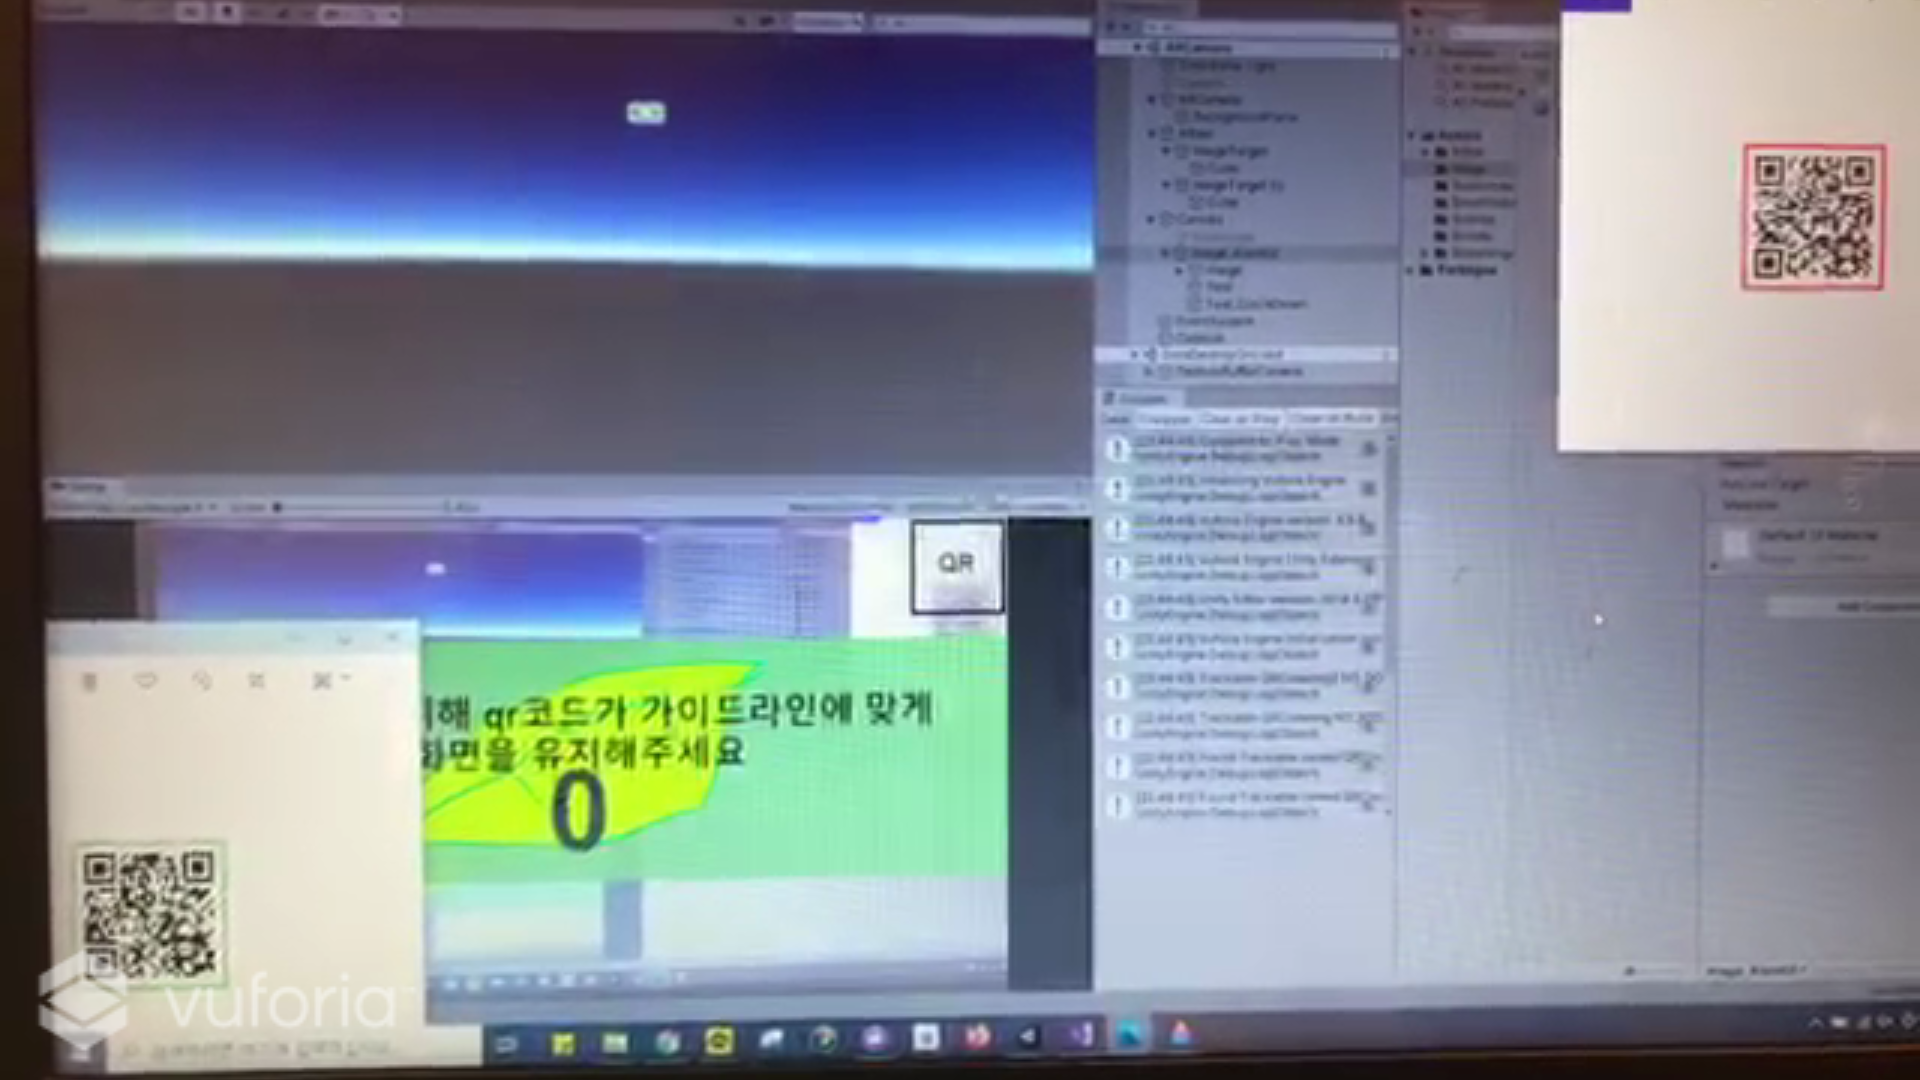
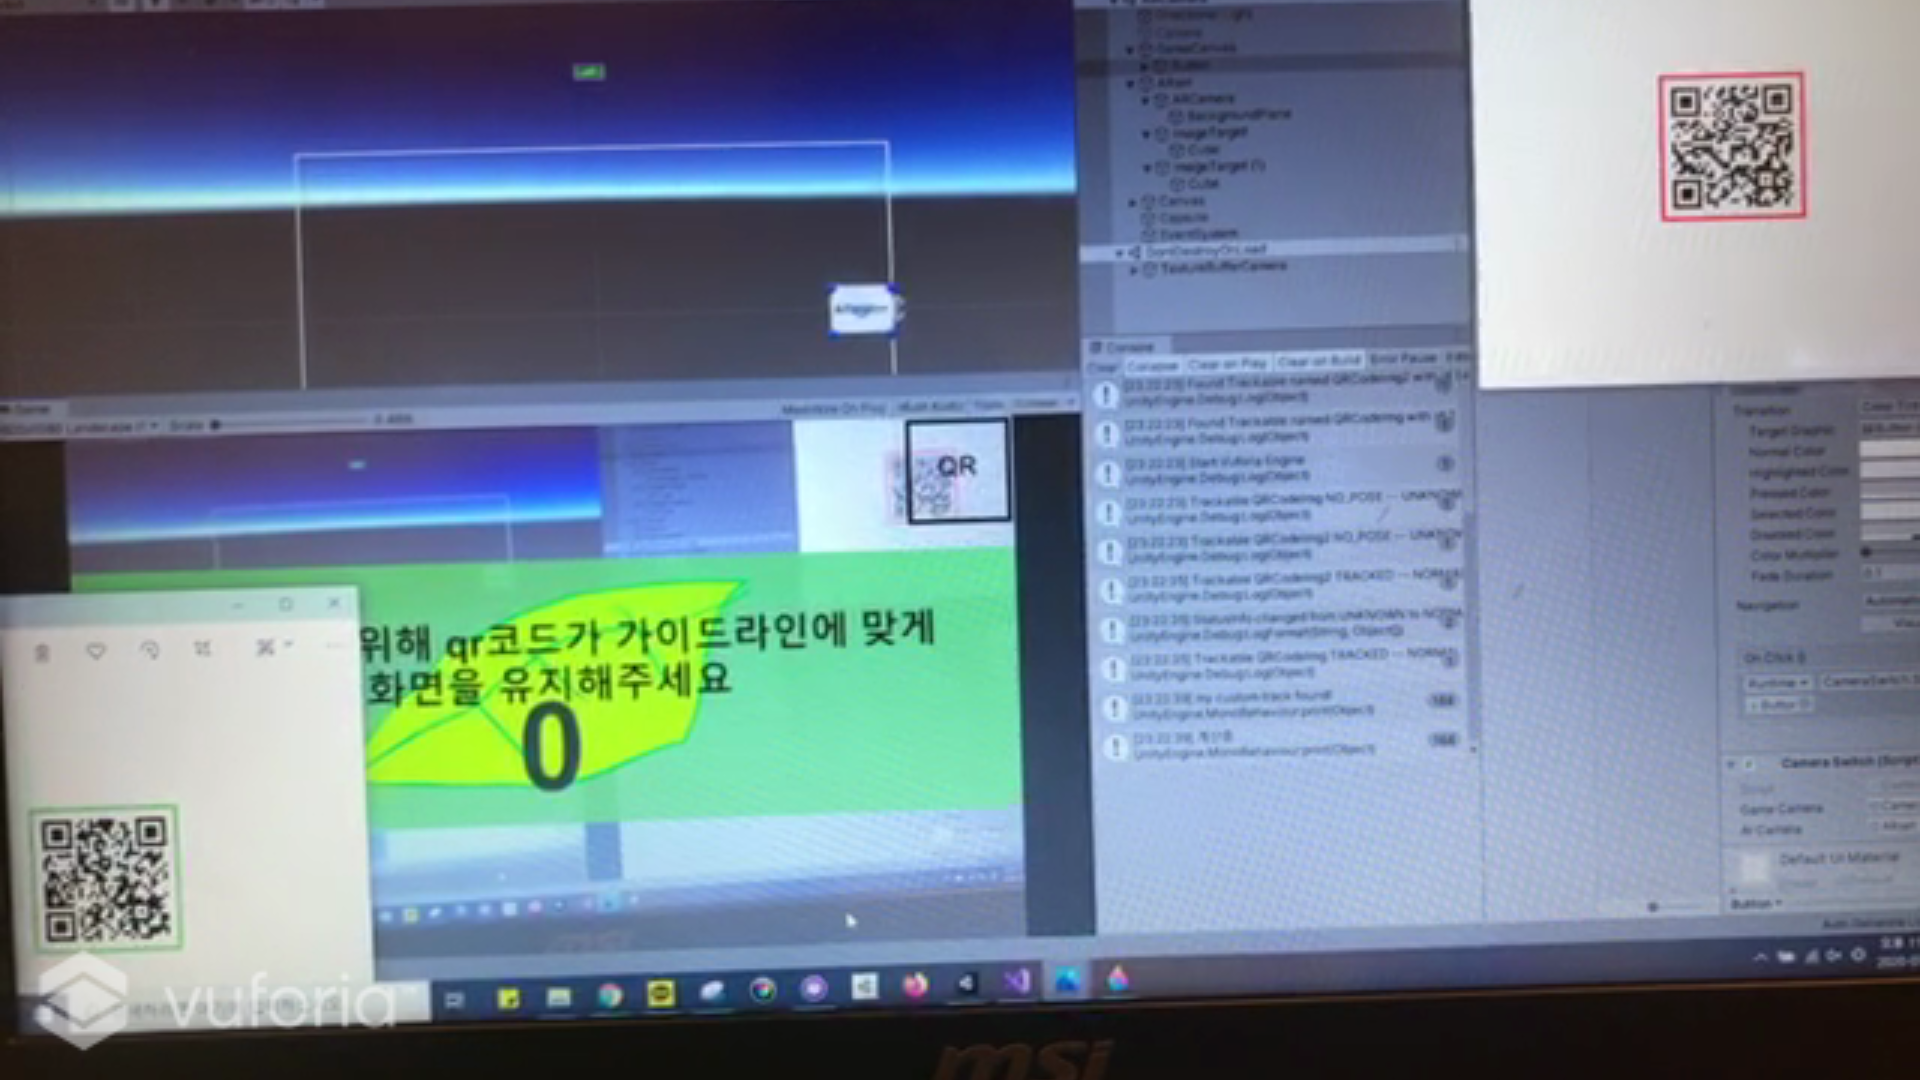
camera switch
게임모드에서 버튼을 통해 ar모드로 스위치

diff --git a/Project_GardenApp/Assets/Scripts/CameraSwitch.cs b/Project_GardenApp/Assets/Scripts/CameraSwitch.cs
@@ -1,0 +1,15 @@
+using System.Collections;
+using System.Collections.Generic;
+using UnityEngine;
+
+public class CameraSwitch : MonoBehaviour
+{
+    public GameObject GameCamera;
+    public GameObject ArCamera;
+
+    public void Switch()
+    {
+        GameCamera.SetActive(false);
+        ArCamera.SetActive(true);
+    }
+}
